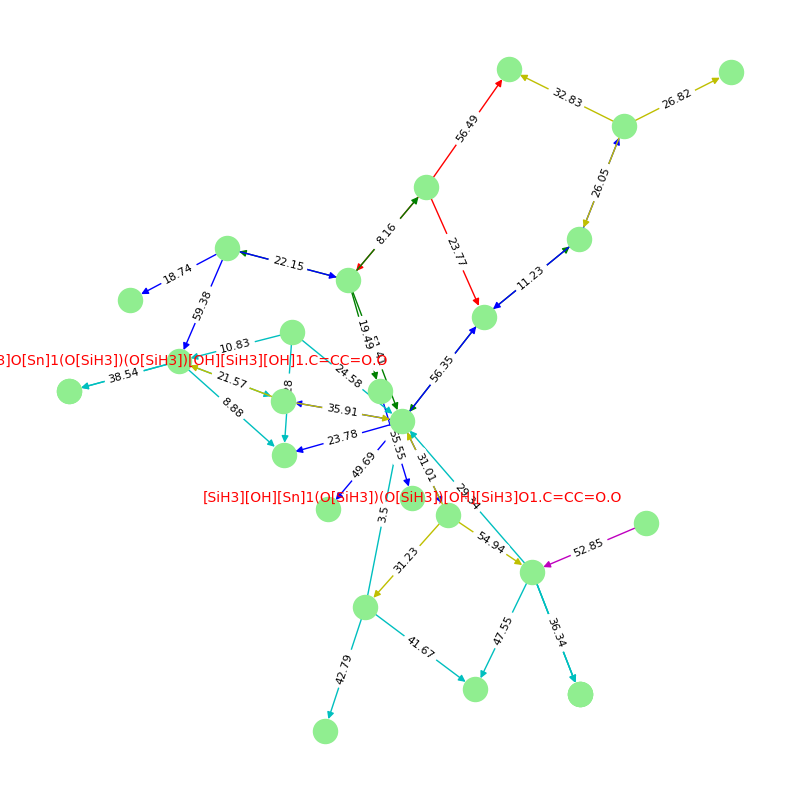
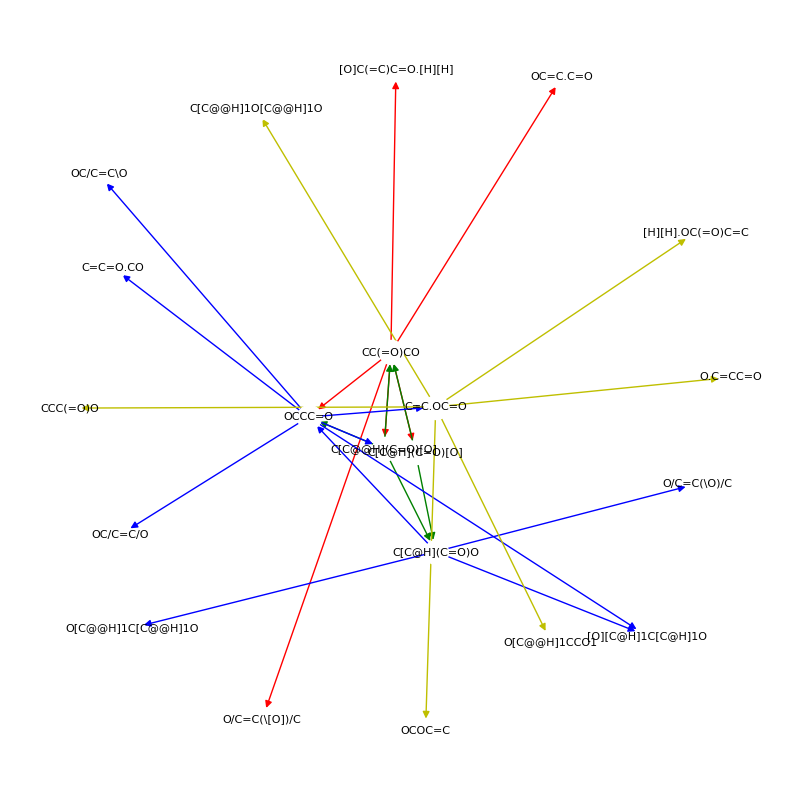
add draw function

diff --git a/script/NetworkDrawer_3.py b/script/NetworkDrawer_3.py
@@ -1,77 +1,135 @@
-from energydiagram import ED
+from openbabel import pybel
+import networkx as nx
 import matplotlib.pyplot as plt
+import os
+import os.path as path
+import sys
+sys.path.append(path.join(path.dirname(path.dirname(path.abspath(__file__))), 'database'))
+from connect import db
+import itertools
 
-diagram = ED()
-diagram.add_level(0,'hydroxyacetone')
-# 1
-diagram.add_level(20.56,'',color='r')
-diagram.add_level(23.77,'','l',color='g')
-diagram.add_level(12.4,'',color='r')
-diagram.add_level(25.16,'','l',color='g')
-# 2
-diagram.add_level(25.20, '',color='r')
-diagram.add_level(31.89, '','l',color='r')
-# diagram.add_level(63.81, '','l')
-diagram.add_level(28.27, '','l',color='g')
-# diagram.add_level(64.36, '','l')
-diagram.add_level(3.03, '2-hydroxypropanal',color='r')
-diagram.add_level(4.26, '2-hydroxypropanal','l',color='r')
-# diagram.add_level(9.07, '3-hydroxypropanal','l')
-diagram.add_level(15.11, 'prop-2-ene-1,2-diol','l',color='g')
-# diagram.add_level(7.98, '3-hydroxypropanal','l')
-#3
-diagram.add_level(62.42, '',color='r')
-diagram.add_level(59.81, '','l',color='r')
-# diagram.add_level(40.62, '','l')
-# diagram.add_level(32.85, '','l')
-# diagram.add_level(62.72, '','l')
-# diagram.add_level(41.05, '','l')
-# diagram.add_level(58.76, '','l')
-diagram.add_level(65.12, '','l',color='g')
-diagram.add_level(19.78, 'acrolein+water',color='r')
-diagram.add_level(20.06, 'acrolein+water','l',color='r')
-# diagram.add_level(20.76, '','l')
-# diagram.add_level(30.90, '','l')
-# diagram.add_level(31.70, 'oxetan-2-one+hydrogen','l')
-# diagram.add_level(12.31, 'prop-1-ene-1,3-diol','l')
-# diagram.add_level(35.95, '','l')
-diagram.add_level(39.08, '','l',color='g')
-#4
-diagram.add_level(71.90, '',color='g')
-diagram.add_level(56.49, '','l',color='g')
-diagram.add_level(65.12, '','l',color='g')
-diagram.add_level(10.26, 'prop-1-ene-1,2-diol',color='g')
-diagram.add_level(8.37, 'prop-1-ene-1,2-diol','l',color='g')
-diagram.add_level(15.11, 'prop-2-ene-1,2-diol','l',color='g')
-#link
-diagram.add_link(0,1,color='r')
-diagram.add_link(0,2,color='g')
-diagram.add_link(1,3,color='r')
-diagram.add_link(2,4,color='g')
+def extract_data(barrier_threshold=200.0):
 
-diagram.add_link(3,6,color='r')
-diagram.add_link(3,5,color='r')
+    reaction_collection = db['reactions']
+    qm_collection = db['qm_calculate_center']
+    reactions = list(reaction_collection.find({}))
 
-diagram.add_link(7,10,color='g')
-diagram.add_link(5,8,color='r')
-diagram.add_link(6,9,color='r')
+    # Remove the reactant equal to product but with the different active site.
+    # e.g. The Proton is at the different oxygen
+    reactions_copy = reactions[:]
+    for reaction in reactions_copy:
+        same = False
+        reactant_smiles = reaction['reactant_smiles'].split('.')
+        product_smiles = reaction['product_smiles'].split('.')
+        if len(reactant_smiles) > 1:
+            reactant_part_smiles = set([rs for rs in reactant_smiles if 'Sn' not in rs and 'C' in rs])
+        else:
+            reactant_part_smiles = set(reactant_smiles)
 
-diagram.add_link(10,13,color='g')
+        if len(product_smiles) > 1:
+            product_part_smiles = set([ps for ps in product_smiles if 'Sn' not in ps and 'C' in ps])
+        else:
+            product_part_smiles = set(product_smiles)
 
-diagram.add_link(9,12,color='r')
-diagram.add_link(8,11,color='r')
+        if reactant_part_smiles == product_part_smiles:
+            same = True
 
-diagram.add_link(13,16,color='g')
+        if same:
+            reactions.remove(reaction)
 
-diagram.add_link(16,17,color='g')
-diagram.add_link(12,15,color='r')
-diagram.add_link(11,14,color='r')
+    reactant_smi, product_smi, barrier, generations = [], [], [], []
+    for target in reactions:
+        reactant_smiles = target['reactant_smiles'].split('.')
+        product_smiles = target['product_smiles'].split('.')
+        if len(reactant_smiles) > 1:
+            reactant_part_smiles = set([rs for rs in reactant_smiles if 'Sn' not in rs])
+            reactant_part_smiles = '.'.join(reactant_part_smiles)
+        else:
+            reactant_part_smiles = set(reactant_smiles)[0]
 
-diagram.add_link(17,20,color='g')
-diagram.add_link(4,7,color='g')
-diagram.add_link(0,18,color='g')
-diagram.add_link(18,21,color='g')
-diagram.add_link(16,19,color='g')
-diagram.add_link(19,22,color='g')
-diagram.plot(show_IDs=False)
-plt.show()
+        if len(product_smiles) > 1:
+            product_part_smiles = set([ps for ps in product_smiles if 'Sn' not in ps])
+            product_part_smiles = '.'.join(product_part_smiles)
+        else:
+            product_part_smiles = set(product_smiles)[0]
+
+        reactant_smi.append(reactant_part_smiles)
+        product_smi.append(product_part_smiles)
+        # print(target['barrier'])
+        barrier.append(round(target['barrier'], 2))
+        generations.append(target['generations'])
+
+        test_target = list(qm_collection.find({'path': target['path']}))[0]
+        # dH = (test_target['product_xtb_hf'] - test_target['reactant_xtb_hf']) * 627.5095
+    zipped = zip(reactant_smi, product_smi, generations, barrier)
+
+    return zipped
+
+def draw():
+    G = nx.DiGraph()  # create object
+
+    zipped = extract_data()
+    _dict = {}
+    labels = {}
+    for i, j, l, k in list(zipped):
+        if l == 1:
+            if G.has_edge(i, j) :
+                continue
+            G.add_edge(i, j, color='r')
+            # _dict[(i, j)] = k
+        elif l == 2:
+            if G.has_edge(i, j) :
+                continue
+            G.add_edge(i, j, color='g')
+            # _dict[(i, j)] = k
+        elif l == 3:
+            if G.has_edge(i, j) :
+                continue
+            G.add_edge(i, j, color='b')
+            # _dict[(i, j)] = k
+        elif l == 4:
+            if G.has_edge(i, j) :
+                continue
+            G.add_edge(i, j, color='y')
+            # _dict[(i, j)] = k
+        elif l == 5:
+            if G.has_edge(i, j) :
+                continue
+            G.add_edge(i, j, color='c')
+            # _dict[(i, j)] = k
+        elif l == 6:
+            if G.has_edge(i, j) :
+                continue
+            G.add_edge(i, j, color='m')
+            # _dict[(i, j)] = k
+        else:
+            if G.has_edge(i, j) :
+                continue
+            G.add_edge(i, j, color='k')
+            # _dict[(i, j)] = k
+
+    plt.figure(figsize=(8, 8))
+    
+    colors = nx.get_edge_attributes(G, 'color').values()
+    weights = nx.get_edge_attributes(G, 'weight').values()
+
+    #pos = nx.circular_layout(G)
+    #pos = nx.shell_layout(G)
+    pos = nx.spring_layout(G)
+    # pos = nx.kamada_kawai_layout(G)
+    nx.draw(G, pos,
+            edge_color=colors,
+            with_labels=True,
+            node_color='white',
+            font_size=8)
+    
+    #nx.draw_networkx_edge_labels(G, pos, font_size=8)
+    nx.draw_networkx_labels(G,pos,labels,font_size=10,font_color='r')
+    #root_to_leaf_paths(G)
+
+    plt.savefig("simple_path_2.png")  # save as png
+    plt.show()
+
+
+
+draw()

diff --git a/script/NetworkDrawer_2.py b/script/NetworkDrawer_2.py
@@ -49,19 +49,29 @@ def extract_data(barrier_threshold=200.0):
 
     reactant_smi, product_smi, barrier, generations = [], [], [], []
     for target in reactions:
-        # for i in reactions:
-        #target = list(reaction_collection.find({'reaction':i['_id'], 'barrier':i['barrier']}))[0]
-        if target['barrier'] > 60:
-            continue
-        reactant_smi.append(target['reactant_smiles'])
-        product_smi.append(target['product_smiles'])
+        reactant_smiles = target['reactant_smiles'].split('.')
+        product_smiles = target['product_smiles'].split('.')
+        if len(reactant_smiles) > 1:
+            reactant_part_smiles = set([rs for rs in reactant_smiles if 'Sn' not in rs and 'C' in rs])
+            reactant_part_smiles = '.'.join(reactant_part_smiles)
+        else:
+            reactant_part_smiles = set(reactant_smiles)[0]
+
+        if len(product_smiles) > 1:
+            product_part_smiles = set([ps for ps in product_smiles if 'Sn' not in ps and 'C' in ps])
+            product_part_smiles = '.'.join(product_part_smiles)
+        else:
+            product_part_smiles = set(product_smiles)[0]
+
+
+        reactant_smi.append(reactant_part_smiles)
+        product_smi.append(product_part_smiles)
         # print(target['barrier'])
         barrier.append(round(target['barrier'], 2))
         generations.append(target['generations'])
 
         test_target = list(qm_collection.find({'path': target['path']}))[0]
-        dH = (test_target['product_xtb_hf'] -
-              test_target['reactant_xtb_hf']) * 627.5095
+        # dH = (test_target['product_xtb_hf'] - test_target['reactant_xtb_hf']) * 627.5095
     zipped = zip(reactant_smi, product_smi, generations, barrier)
 
     return zipped
@@ -74,51 +84,54 @@ def draw():
     labels = {}
     for i, j, l, k in list(zipped):
         if l == 1:
-            if G.has_edge(i, j) and k < _dict[(i, j)]:
-                _dict[(i, j)] = k
+            if G.has_edge(i, j) :
+                continue
+                # _dict[(i, j)] = k
             if not G.has_edge(i, j):
                 G.add_edge(i, j, color='r')
-                _dict[(i, j)] = k
+                # _dict[(i, j)] = k
         elif l == 2:
-            if G.has_edge(i, j) and k < _dict[(i, j)]:
-                _dict[(i, j)] = k
+            if G.has_edge(i, j) :
+                continue
+                # _dict[(i, j)] = k
             if not G.has_edge(i, j):
                 G.add_edge(i, j, color='g')
-                _dict[(i, j)] = k
+                # _dict[(i, j)] = k
         elif l == 3:
-            if G.has_edge(i, j) and k < _dict[(i, j)]:
-                _dict[(i, j)] = k
+            if G.has_edge(i, j) :
+                continue
+                # _dict[(i, j)] = k
             if not G.has_edge(i, j):
                 G.add_edge(i, j, color='b')
-                _dict[(i, j)] = k
+                # _dict[(i, j)] = k
         elif l == 4:
-            if G.has_edge(i, j) and k < _dict[(i, j)]:
-                _dict[(i, j)] = k
+            if G.has_edge(i, j) :
+                continue
+                # _dict[(i, j)] = k
             if not G.has_edge(i, j):
                 G.add_edge(i, j, color='y')
-                _dict[(i, j)] = k
+                # _dict[(i, j)] = k
         elif l == 5:
-            if G.has_edge(i, j) and k < _dict[(i, j)]:
-                _dict[(i, j)] = k
+            if G.has_edge(i, j) :
+                continue
+                # _dict[(i, j)] = k
             if not G.has_edge(i, j):
                 G.add_edge(i, j, color='c')
-                _dict[(i, j)] = k
+                # _dict[(i, j)] = k
         elif l == 6:
-            if G.has_edge(i, j) and k < _dict[(i, j)]:
-                _dict[(i, j)] = k
+            if G.has_edge(i, j) :
+                continue
+                # _dict[(i, j)] = k
             if not G.has_edge(i, j):
                 G.add_edge(i, j, color='m')
-                _dict[(i, j)] = k
+                # _dict[(i, j)] = k
         else:
-            if G.has_edge(i, j) and k < _dict[(i, j)]:
-                _dict[(i, j)] = k
+            if G.has_edge(i, j) :
+                continue
+                # _dict[(i, j)] = k
             if not G.has_edge(i, j):
                 G.add_edge(i, j, color='k')
-                _dict[(i, j)] = k
-
-    for node in G.nodes():
-        if 'C=CC=O' in node:
-            labels[node] = node
+                # _dict[(i, j)] = k
 
     plt.figure(figsize=(8, 8))
     
@@ -131,13 +144,13 @@ def draw():
     pos = nx.kamada_kawai_layout(G)
     nx.draw(G, pos,
             edge_color=colors,
-            with_labels=False,
+            with_labels=True,
             node_color='lightgreen',
             font_size=8)
     
-    nx.draw_networkx_edge_labels(G, pos, edge_labels=_dict, font_size=8)
-    nx.draw_networkx_labels(G,pos,labels,font_size=10,font_color='r')
-    root_to_leaf_paths(G)
+    nx.draw_networkx_edge_labels(G, pos, font_size=8)
+    # nx.draw_networkx_labels(G,pos,labels,font_size=10,font_color='r')
+    #root_to_leaf_paths(G)
 
     plt.savefig("simple_path_2.png")  # save as png
     plt.show()

diff --git a/database/connect.py b/database/connect.py
@@ -16,7 +16,7 @@ class Connector(object):
         #self.server = 'mongodb://localhost:27017/'
         #self.mongo_db = mongo_db
         self.client = self.connect()
-        self.db = self.client['SnBEA_complete']
+        self.db = self.client['SnBEA_final_2']
 
     def connect(self):
         client = MongoClient(self.server, serverSelectionTimeoutMS=60000)
